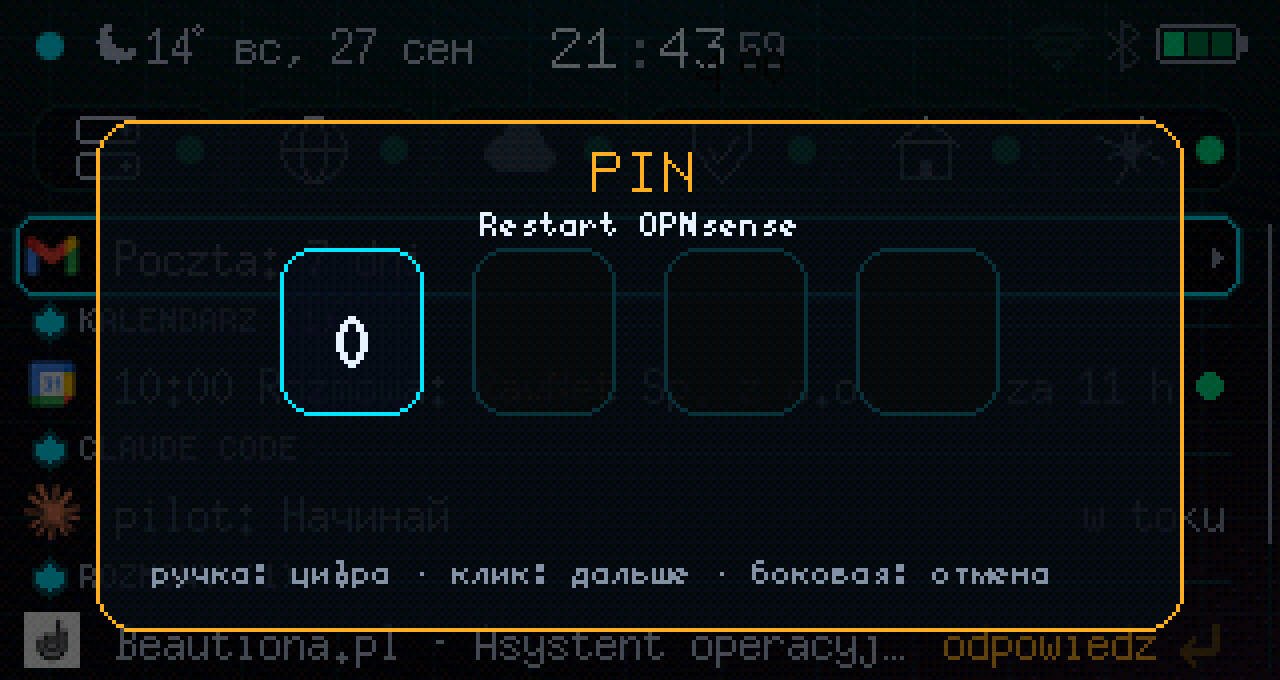
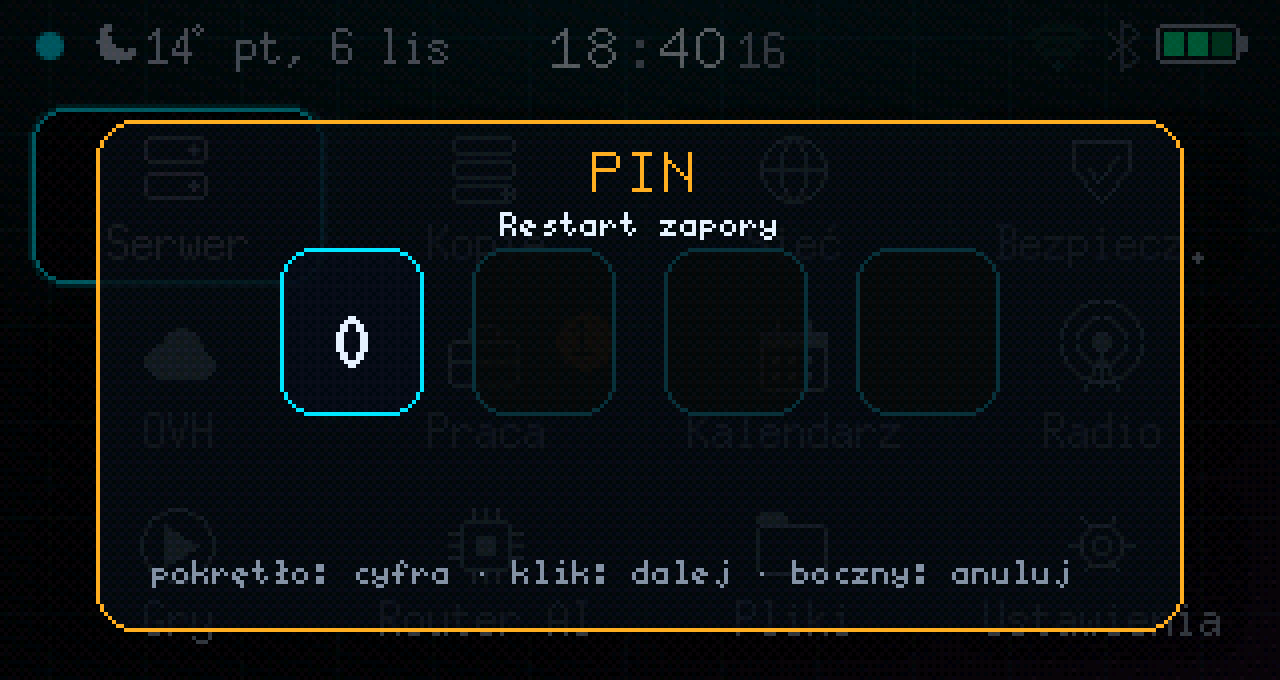
Pilot ESP32: zrzuty po polsku na danych przykładowych
- Sześć ekranów z symulatora z polskimi napisami (data «pt, 6 lis», sesja, odtwarzacz, wykres, maszyny, PIN)
- tools/pilot/render.py: kopia firmware w katalogu tymczasowym z polskimi napisami, firmware pilota bez zmian
- Dane przykładowe zamiast prawdziwych: wymyślone usługi, utwór i polecenie, bez tła z kalendarzem i pocztą
- Opis galerii i podpis menu kafelków w PL, EN i RU

Kind: feat

diff --git a/tools/pilot/render.py b/tools/pilot/render.py
@@ -1,0 +1,105 @@
+#!/usr/bin/env python3
+"""Zrzuty pilota ESP32 po polsku na stronę (public/img/projekty/pilot-*.png).
+
+Pilot na co dzień mówi po rosyjsku, a jego firmware się tu NIE zmienia. Skrypt:
+1. kopiuje firmware/ i sim/ z repozytorium pilota (GC_REMOTE, domyślnie ~/src/gitcloud-remote) do katalogu tymczasowego,
+2. w kopii podmienia napisy widoczne na sześciu ekranach na polskie (PL niżej; brak trafienia = błąd),
+3. bierze dane wzorcowe symulatora (sim/fixtures/golden.jsonl, poza tym repo) i nadpisuje wszystko, co widać
+   na zrzutach, danymi przykładowymi (DEMO niżej): wymyślone usługi, utwór, polecenie,
+4. buduje symulator, odgrywa scenariusz.txt i zapisuje ekrany 320×170 powiększone 4× (piksel w piksel).
+
+Uruchomienie: ~/job-hunter/.venv/bin/python -I tools/pilot/render.py   (Pillow; symulator: g++, zlib)
+"""
+import json
+import os
+import shutil
+import subprocess
+import sys
+import tempfile
+from pathlib import Path
+
+from PIL import Image
+
+HERE = Path(__file__).resolve().parent
+SITE = HERE.parent.parent
+REMOTE = Path(os.environ.get("GC_REMOTE", Path.home() / "src/gitcloud-remote"))
+OUT = SITE / "public/img/projekty"
+SHOTS = ["kafelki", "claude", "muzyka", "wykres", "maszyny", "pin"]
+
+# (plik, było, jest) : tylko kopia w katalogu tymczasowym
+PL = [
+    ("statusbar.h", '{"вс", "пн", "вт", "ср", "чт", "пт", "сб"}', '{"nd", "pn", "wt", "śr", "cz", "pt", "sb"}'),
+    ("statusbar.h", '{"янв", "фев", "мар", "апр", "мая", "июн", "июл", "авг", "сен", "окт", "ноя", "дек"}',
+     '{"sty", "lut", "mar", "kwi", "maj", "cze", "lip", "sie", "wrz", "paź", "lis", "gru"}'),
+    ("claude.h", '"Сессия готова"', '"Sesja gotowa"'),
+    ("claude.h", '"Клик ручки: говори, клик: отправить"', '"Klik pokrętła: mów, klik: wyślij"'),
+    ("claude.h", '"удержание: меню сессии"', '"przytrzymanie: menu sesji"'),
+    ("claude.h", 's = "работает"', 's = "pracuje"'),
+    ("claude.h", '"5ч %d%%" : "5ч -"', '"5h %d%%" : "5h -"'),
+    ("claude.h", '"нед. %d%%" : "нед. -"', '"tydz. %d%%" : "tydz. -"'),
+    ("nowplaying.h", '"ИГРАЕТ" : "ПАУЗА"', '"GRA" : "PAUZA"'),
+    ("charts.h", '{"15 мин", "1 ч", "6 ч", "24 ч", "7 дней", "30 дней"}', '{"15 min", "1 h", "6 h", "24 h", "7 dni", "30 dni"}'),
+    ("charts.h", '" · 2×: дальше"', '" · 2×: dalej"'),
+    ("guests_ha.h", 'String("выключена")', 'String("wyłączona")'),
+    ("pilot.h", '"ручка: цифра · клик: дальше · боковая: отмена"', '"pokrętło: cyfra · klik: dalej · boczny: anuluj"'),
+]
+
+# dane przykładowe: zastępują wiadomości o tym samym typie «t»
+DEMO = {
+    "np": {"t": "np", "on": True, "pl": False, "ti": "Lo-fi do pracy", "ar": "", "al": "",
+           "len": 3540, "pos": 2310, "src": "Muzyka", "yt": 0},
+    "gl": {"t": "gl", "r": [[0, 100, "app-web", 1, 3, 1840, 4096], [1, 101, "automatyzacje", 0, 0, 0, 2048],
+                            [1, 102, "PostgreSQL", 1, 1, 410, 2048], [1, 103, "sejf-hasel", 1, 0, 96, 512],
+                            [0, 104, "zapora", 1, 2, 2100, 4096], [1, 105, "harmonogram", 1, 0, 280, 1024]]},
+}
+PIN_CMD = "Restart zapory"
+
+
+def main():
+    if not (REMOTE / "sim/fixtures/golden.jsonl").exists():
+        sys.exit(f"brak {REMOTE}/sim/fixtures/golden.jsonl")
+    tmp = Path(tempfile.mkdtemp(prefix="pilot-pl-"))
+    try:
+        shutil.copytree(REMOTE / "firmware", tmp / "firmware", ignore=shutil.ignore_patterns(".pio"))
+        sim = tmp / "sim"
+        sim.mkdir()
+        for n in ("build.sh", "sim.cpp", "fw.cpp"):
+            shutil.copy2(REMOTE / "sim" / n, sim / n)
+        shutil.copytree(REMOTE / "sim/stubs", sim / "stubs")
+        if (REMOTE / "sim/build").exists():                       # skompilowane biblioteki: szybciej
+            shutil.copytree(REMOTE / "sim/build", sim / "build")
+        (sim / ".deps").symlink_to(REMOTE / "sim/.deps")
+
+        src = tmp / "firmware/src"
+        for f, a, b in PL:
+            p = src / f
+            t = p.read_text()
+            if a not in t:
+                sys.exit(f"{f}: nie ma «{a}» : firmware się zmienił, popraw listę PL")
+            p.write_text(t.replace(a, b))
+
+        lines = []
+        for l in (REMOTE / "sim/fixtures/golden.jsonl").read_text().splitlines():
+            if l.strip() and json.loads(l).get("t") in DEMO:
+                continue
+            lines.append(l)
+        lines += [json.dumps(m, ensure_ascii=False) for m in DEMO.values()]
+        (sim / "data.jsonl").write_text("\n".join(lines) + "\n")
+        scen = (HERE / "scenariusz.txt").read_text().replace("@PIN@", PIN_CMD)
+        (sim / "pl.txt").write_text(scen)
+
+        subprocess.run(["./build.sh"], cwd=sim, check=True, stdout=subprocess.DEVNULL)
+        (sim / "out").mkdir()
+        subprocess.run(["build/gc-sim", "pl.txt", "out"], cwd=sim, check=True, stdout=subprocess.DEVNULL)
+        for s in SHOTS:
+            im = Image.open(sim / "out" / f"{s}.png").convert("RGB")
+            im = im.resize((im.width * 4, im.height * 4), Image.NEAREST)
+            dst = OUT / f"pilot-{s}.png"
+            im.save(dst, optimize=True)
+            print(dst.relative_to(SITE), dst.stat().st_size // 1024, "KB")
+    finally:
+        shutil.rmtree(tmp, ignore_errors=True)
+
+
+if __name__ == "__main__":
+    main()
